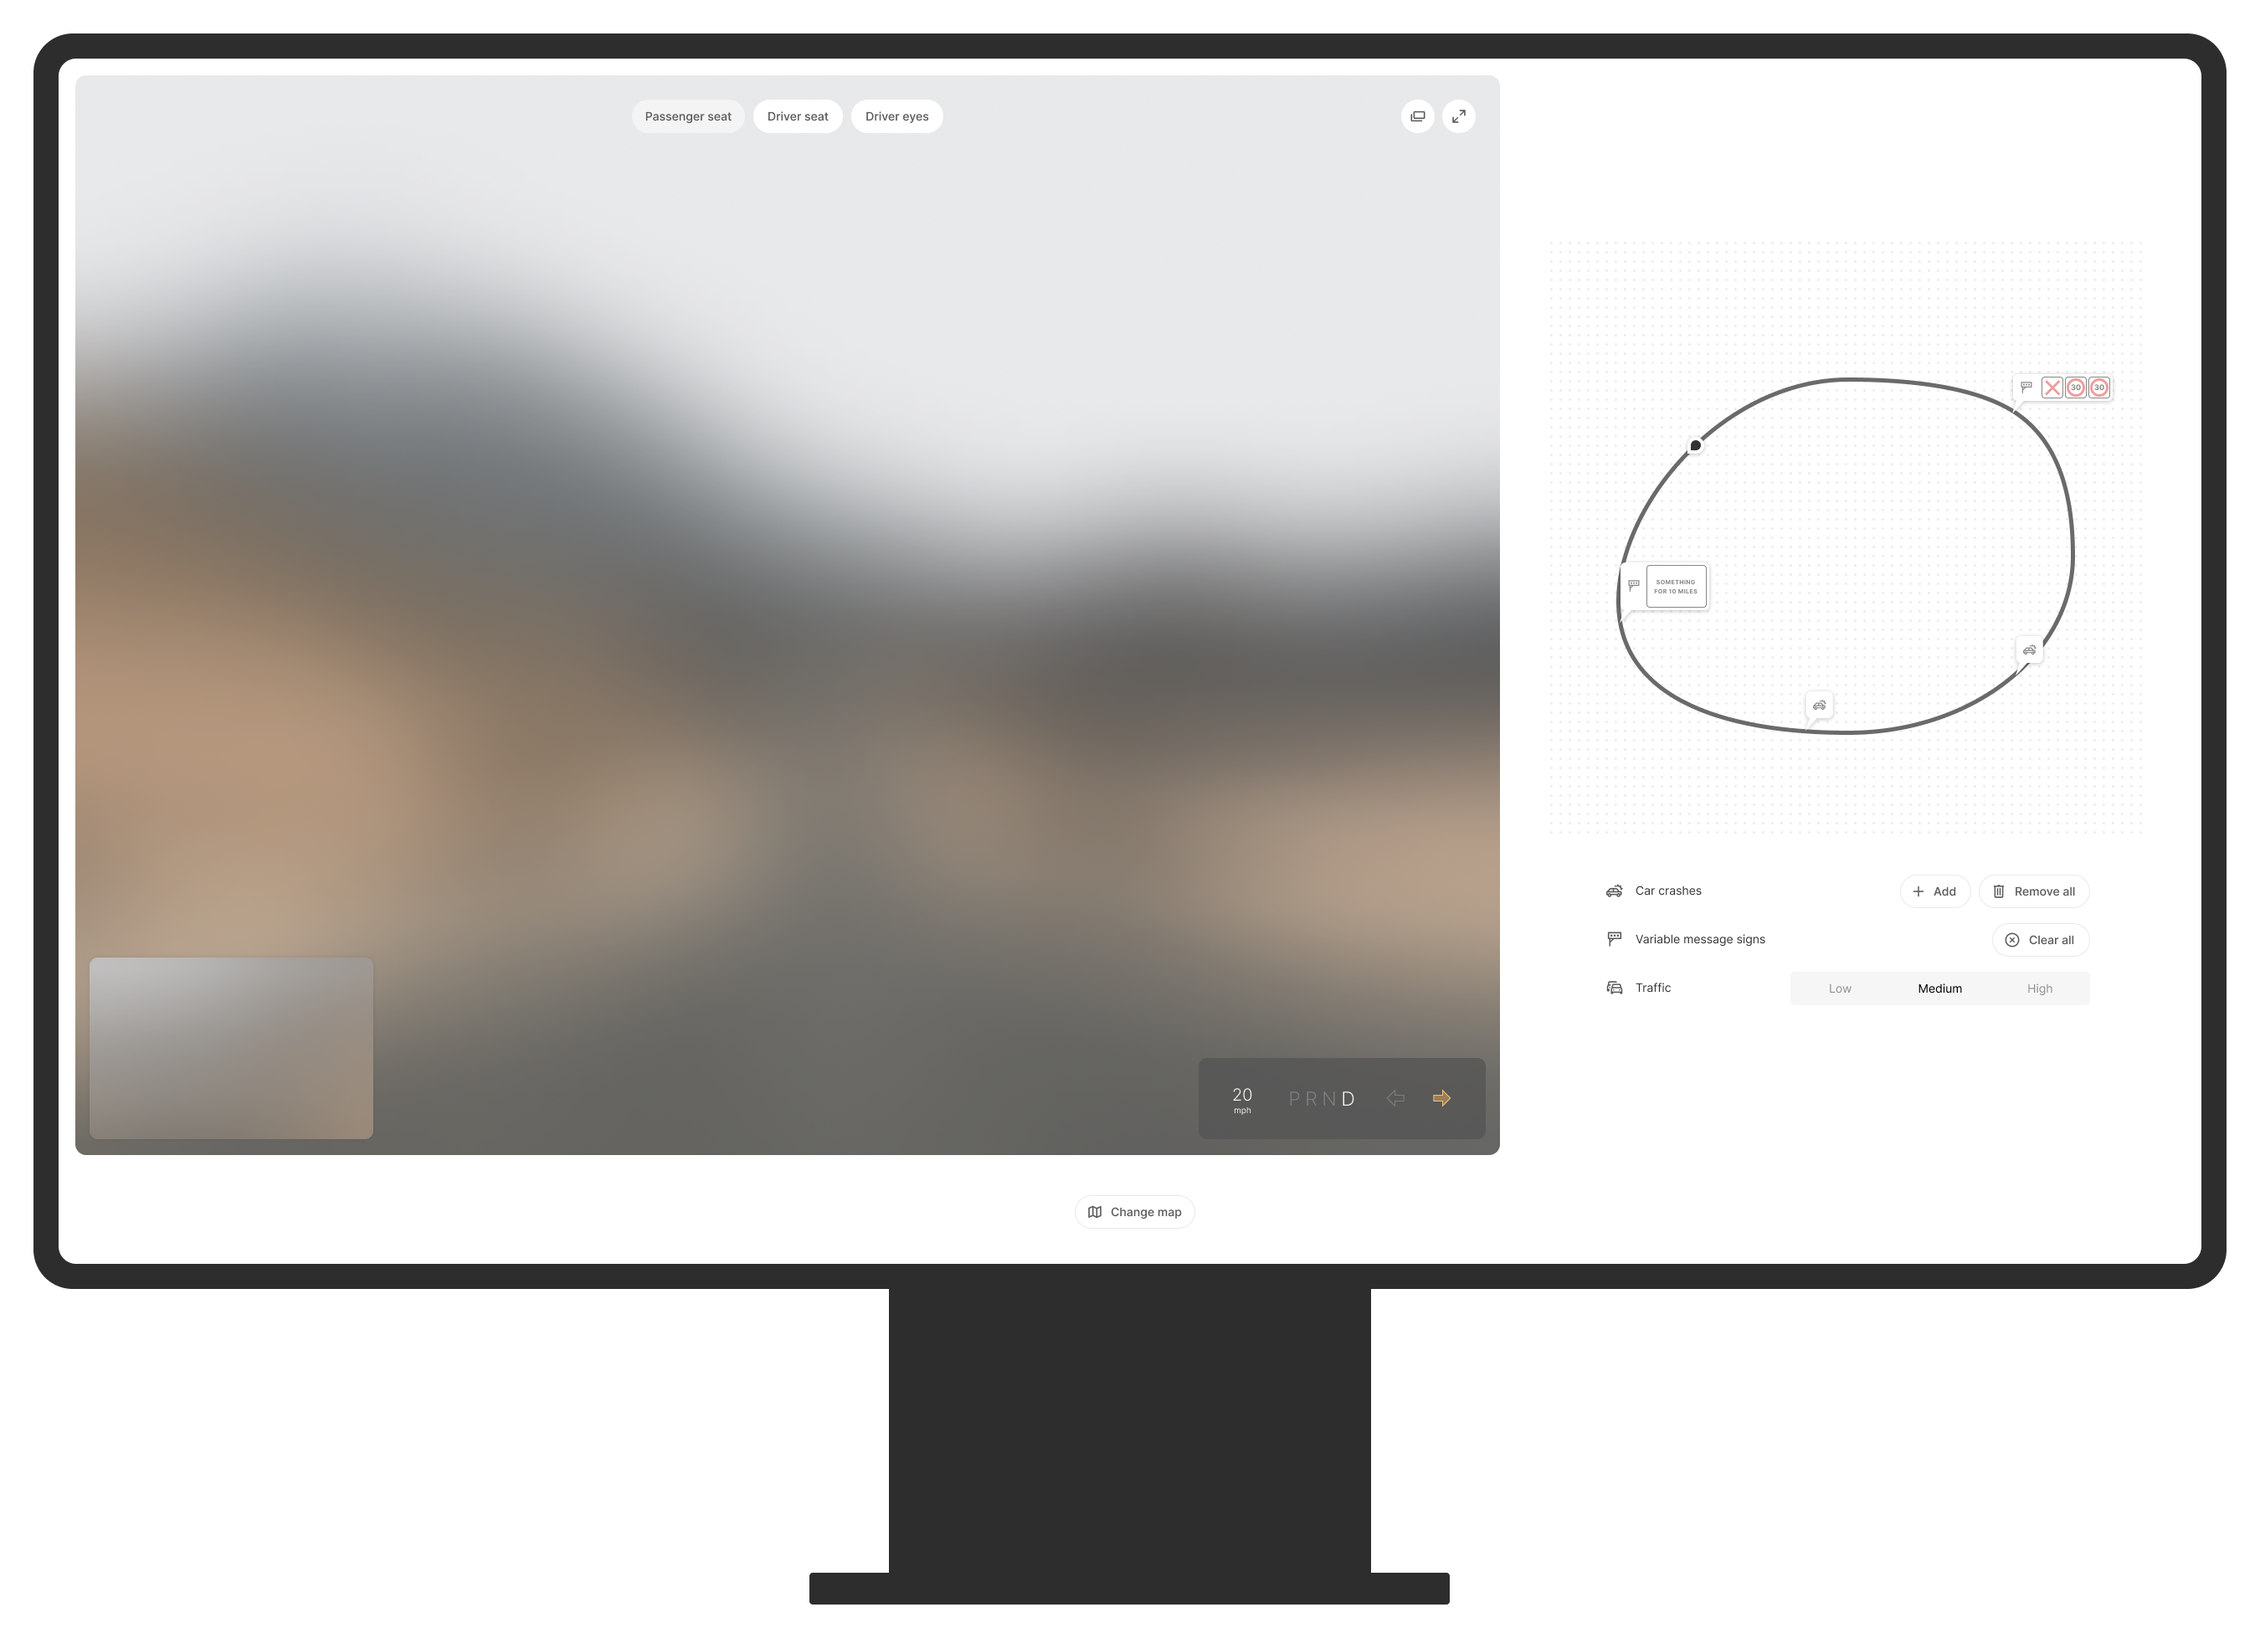
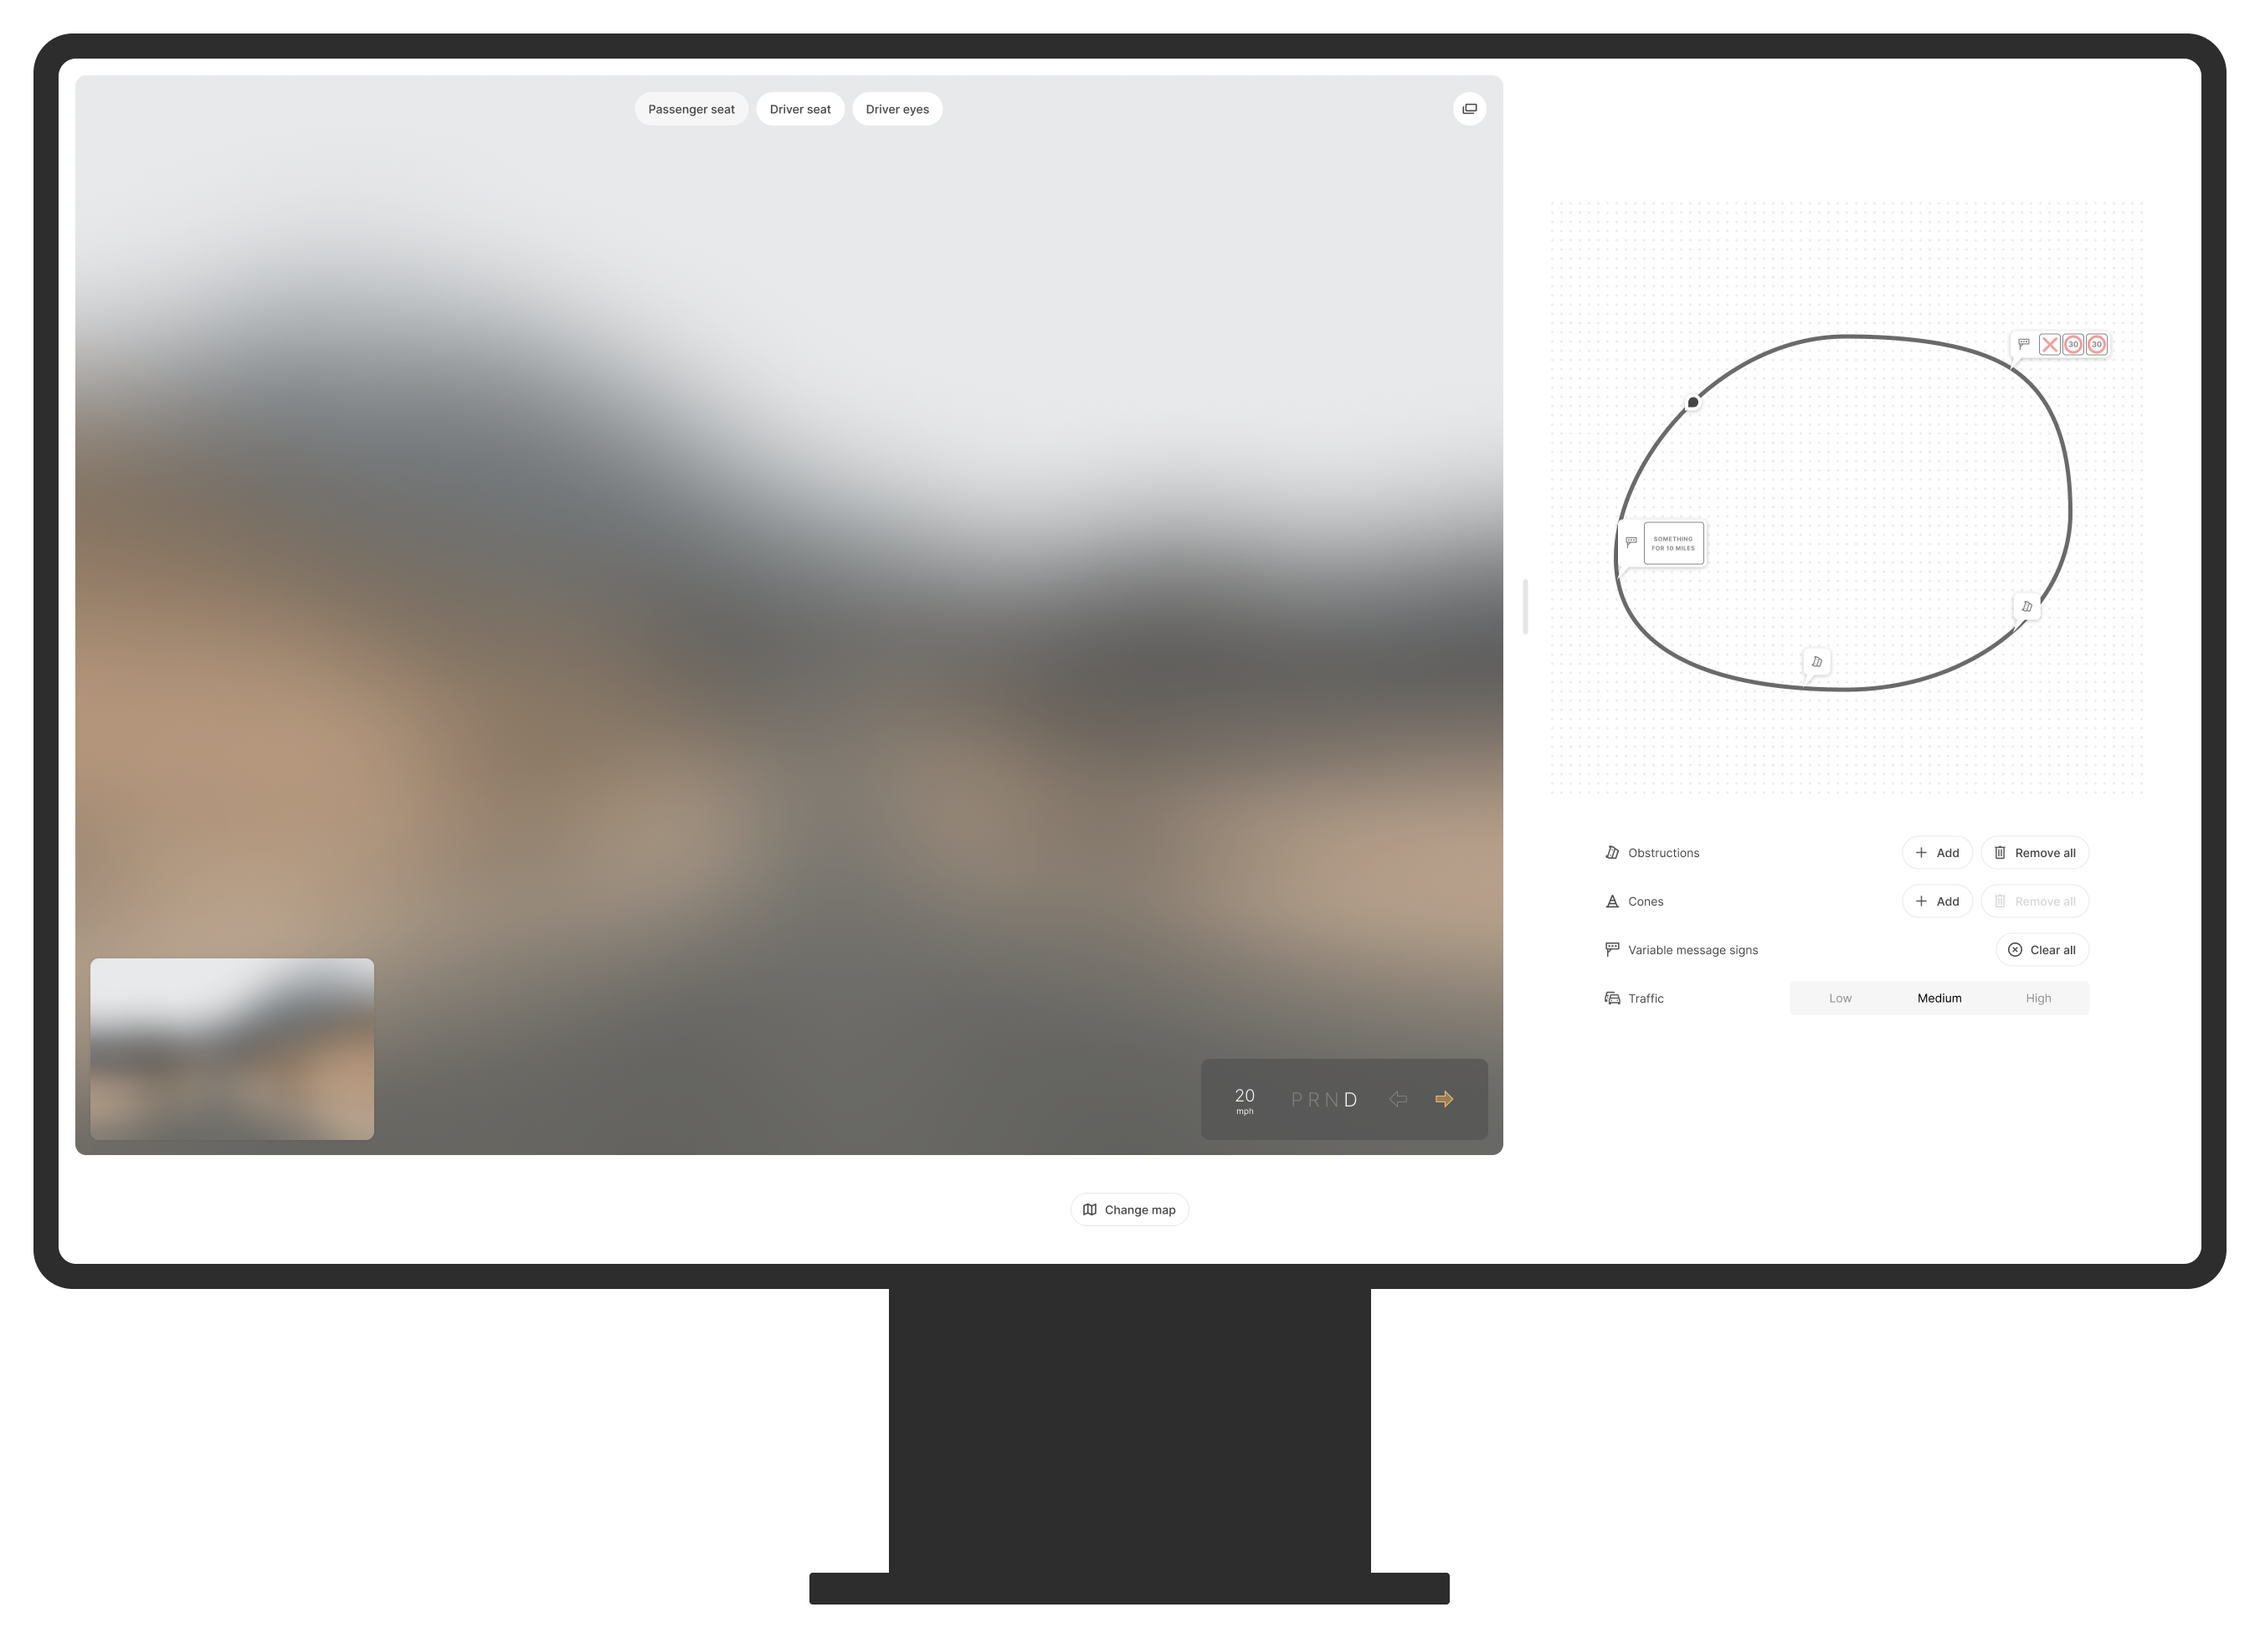
Small mvp changes

diff --git a/content/2022-07-01-driving_sim/index.md b/content/2022-07-01-driving_sim/index.md
@@ -1,14 +1,16 @@
 +++
-title = "A driving simulator for traffic officers training"
-slug = "driving_sim"
+title = "A driving simulator for training traffic officers"
+slug = "mvp"
 template = "portfolio-entry.html"
 [extra]
 tags = ["UX", "UI", "Unity", "C#"]
 +++
 
-On one side we have a traffic officer trainee with a VR headset sitting in a car-like rig which can simulate the movements and rumbles of a real one; on the other side an instructor using a connected PC with which they can manipulate the virtual environment to create custom scenarios with car accidents, high traffic, etc.
+This is an app I worked on while at [MXT](https://mxt.co.uk/). It is to be used by two users: a traffic officer trainee and an instructor. The former drives a VR car while the latter manipulates the virtual environment to create custom scenarios with car accidents, high traffic, etc.
 
-The design process covered hardware, software and the user experience as a whole. I'll focus on key parts of the mock-ups I created, and then implemented in Unity with UI Toolkit. UI Toolkit is like HTML and CSS adapted for use in a game engine.
+{{ image(src="users.jpg") }}
+
+The design process covered hardware, software, and the all-around user experience. Here I'll focus on key parts of the mock-ups I created for the instructor.
 
 Once connected, this is the dashboard the instructor is presented with:
 
@@ -18,17 +20,21 @@ This is the semantic structure:
 
 {{ image(src="semantic_structure.png", can_toggle_full_width=true) }}
 
-A few notes on the design:
+The following are a few notes on the design.
 
-* At a glance, your attention is not drawn anywhere (except perhaps the scene view): there are no primary actions and for this reason no buttons or other elements have a prominent style.
-* I don't use an accent colour, but contrast instead. I'm not fond of accent colours in unbranded UIs — this makes designs more challenging but arguably more aesthetically pleasing.
-* The typeface is Inter, which is pretty standard nowadays.
-* All icons are custom made.
-* It's minimalist but ergonomic.
-* There's much though behind the 'Change map' button: it also serves as way to start, end and reset a 'session'.
-* I'm still a programmer! This means I know the tools and the limitations available, and the mock-ups are always assured to be achievable.
+At a glance, your attention is not drawn anywhere (except perhaps the scene view): there are no primary actions and for this reason no buttons or other elements have a prominent style.
 
-Here are some other pieces:
+I don't use an accent colour, but contrast instead. I'm not fond of accent colours in unbranded UIs — this makes designs more challenging but arguably more aesthetically pleasing.
+
+The typeface is Inter, which is pretty standard nowadays and it works very well.
+
+All icons are custom made.
+
+It's minimalist but ergonomic.
+
+There's much though behind the 'Change map' button: it also serves as way to start, end and reset a 'session'.
+
+I'm still a programmer! This means I know the tools and the limitations available, and the mock-ups are always made to be achievable.
 
 {{ image(src="edit_gantry.png", can_toggle_full_width=true) }}
 
@@ -39,3 +45,5 @@ Here are some other pieces:
 {{ image(src="details_mini_map.png", can_toggle_full_width=true) }}
 
 {{ image(src="details_road_rendering.png", can_toggle_full_width=true) }}
+
+I initially implemented the UI in Unity with UI Toolkit., which is like HTML and CSS adapted for use in a game engine. However, after many missing features and bugs I decided to switch to [Nova](https://novaui.io/) and it has been a pleasure to use.
